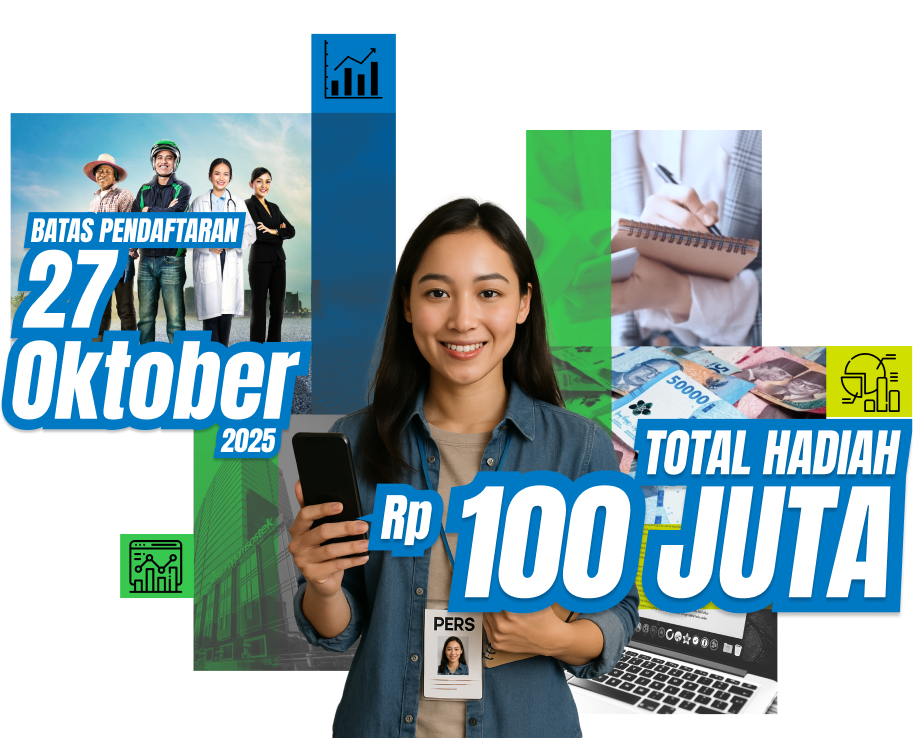
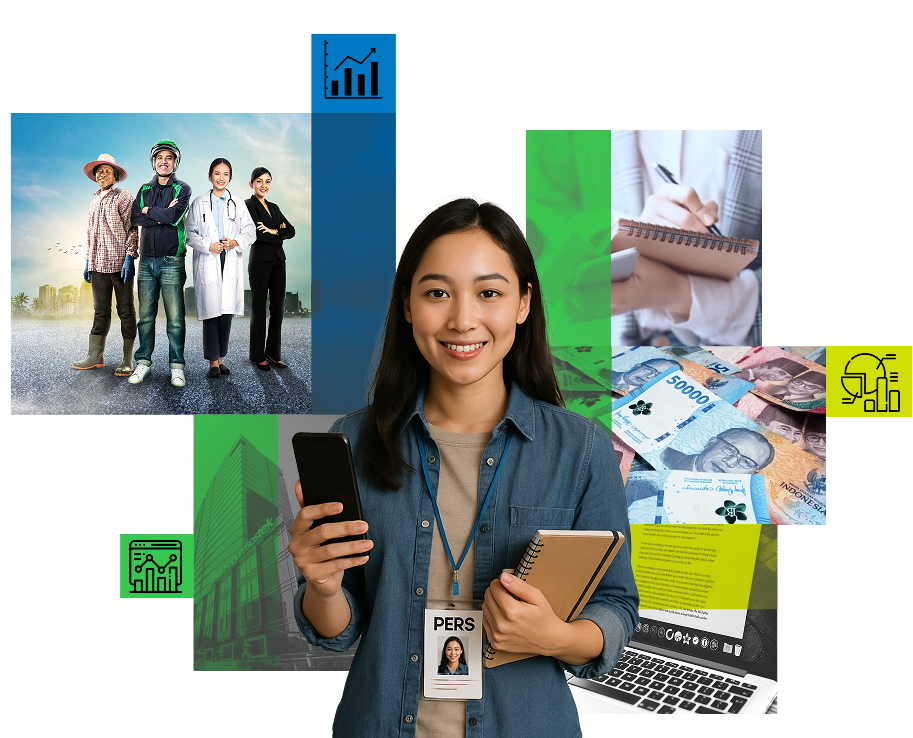
adjust hero img pisah floating elemen kv batas pendaftaran dan total hadiah

diff --git a/assets/css/style.css b/assets/css/style.css
@@ -236,3 +236,89 @@ footer a:hover {
   color: #f8f9fb;
   background-color: #58bc36; /* hijau BPJS */
 }
+
+/* Floating */
+.hero .floating-elements {
+  position: absolute;
+  top: 0;
+  left: 0;
+  right: 0;
+  bottom: 0;
+  z-index: 3;
+}
+
+.hero .floating-card {
+  position: absolute;
+  background-color: var(--surface-color);
+  padding: 15px 20px;
+  border-radius: 15px;
+  box-shadow: 0 10px 30px color-mix(in srgb, var(--default-color), transparent 90%);
+  display: flex;
+  align-items: center;
+  gap: 10px;
+  white-space: nowrap;
+  animation: float 6s ease-in-out infinite;
+}
+
+@media (max-width: 768px) {
+  .hero .floating-card {
+    padding: 10px 15px;
+    font-size: 0.9rem;
+  }
+}
+
+.hero .floating-card i {
+  font-size: 1.5rem;
+  color: var(--accent-color);
+}
+
+@media (max-width: 768px) {
+  .hero .floating-card i {
+    font-size: 1.2rem;
+  }
+}
+
+.hero .floating-card span {
+  font-weight: 600;
+  color: var(--default-color);
+}
+
+.hero .floating-card.card-1 {
+  top: 30%;
+  left: -5%;
+  animation-delay: 0s;
+  max-width: 300px;
+}
+
+@media (max-width: 768px) {
+  .hero .floating-card.card-1 {
+    top: 30%;
+    left: -5%;
+    max-width: 200px;
+  }
+}
+
+.hero .floating-card.card-2 {
+  top: 57%;
+  right: -3%;
+  animation-delay: 2s;
+  max-width: 400px;
+}
+
+@media (max-width: 768px) {
+  .hero .floating-card.card-2 {
+    top: 60%;
+    right: -4%;
+    max-width: 250px;
+  }
+}
+@keyframes float {
+  0%,
+  100% {
+    transform: translateY(0px);
+  }
+
+  50% {
+    transform: translateY(-20px);
+  }
+}

diff --git a/index.html b/index.html
@@ -85,8 +85,16 @@
           </div>
           <div class="col-lg-6 reveal">
             <div class="hero-visual position-relative">
-              <img class="img-fluid float" src="assets/img/kv-poster.png" alt="Showcase" />
-              <div class="glow"></div>
+              <div class="floating-element">
+                <div class="floating-card card-1">
+                  <img class="img-fluid" src="assets/img/batas-pendaftaran.png" alt="Showcase" />
+                </div>
+                <div class="floating-card card-2">
+                  <img class="img-fluid" src="assets/img/total-hadiah.png" alt="Showcase" />
+                </div>
+              </div>
+              <img class="img-fluid" src="assets/img/kv-poster.png" alt="Showcase" />
+              <!-- <img class="img-fluid float" src="assets/img/kv-poster.png" alt="Showcase" /> -->
             </div>
           </div>
         </div>
